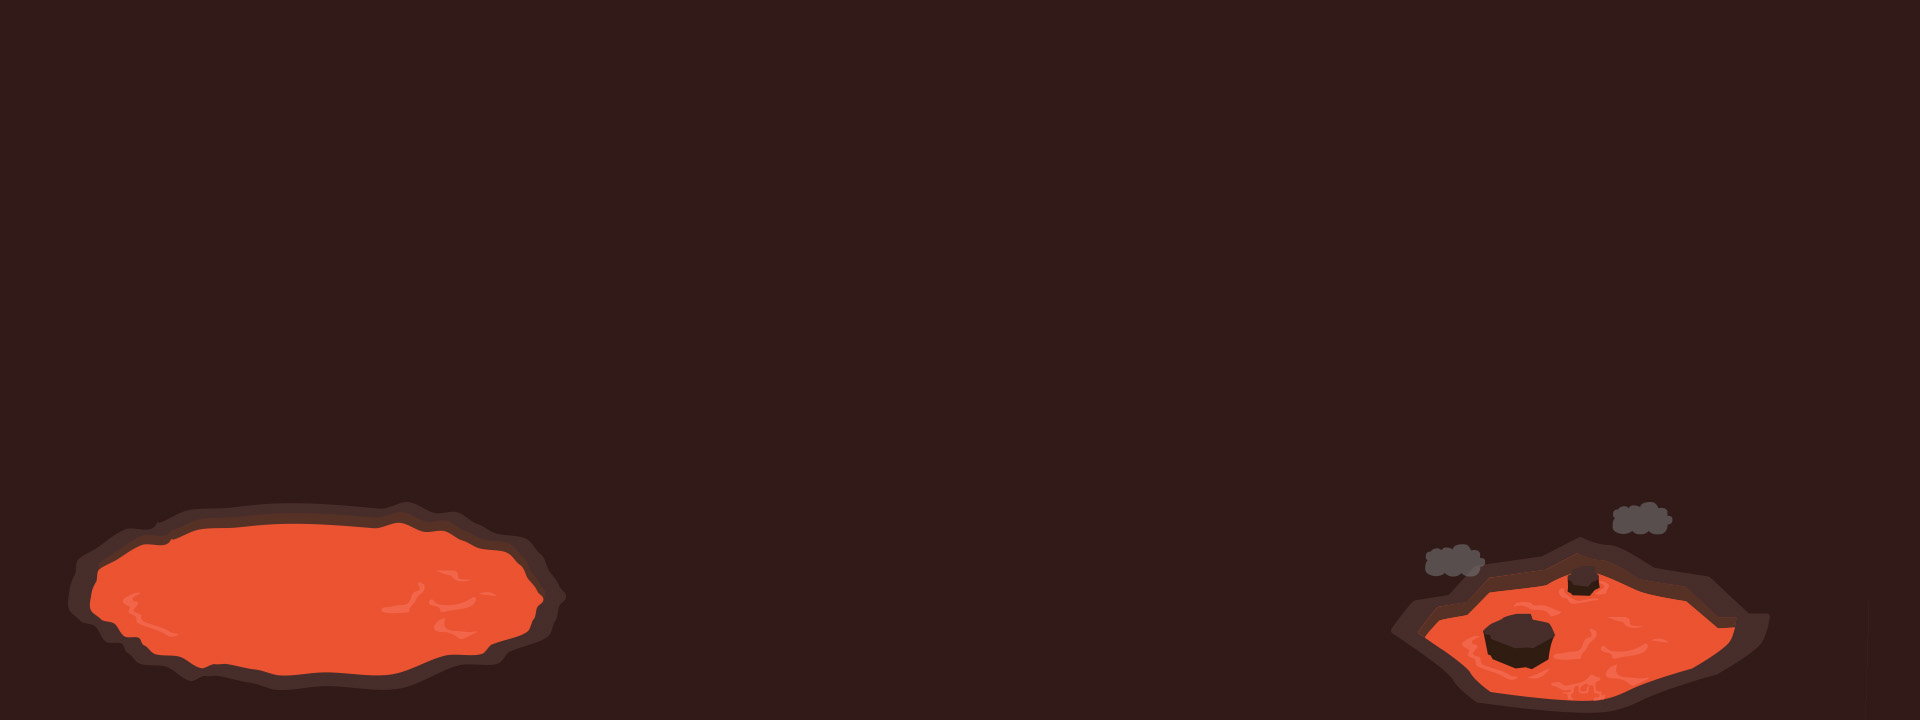
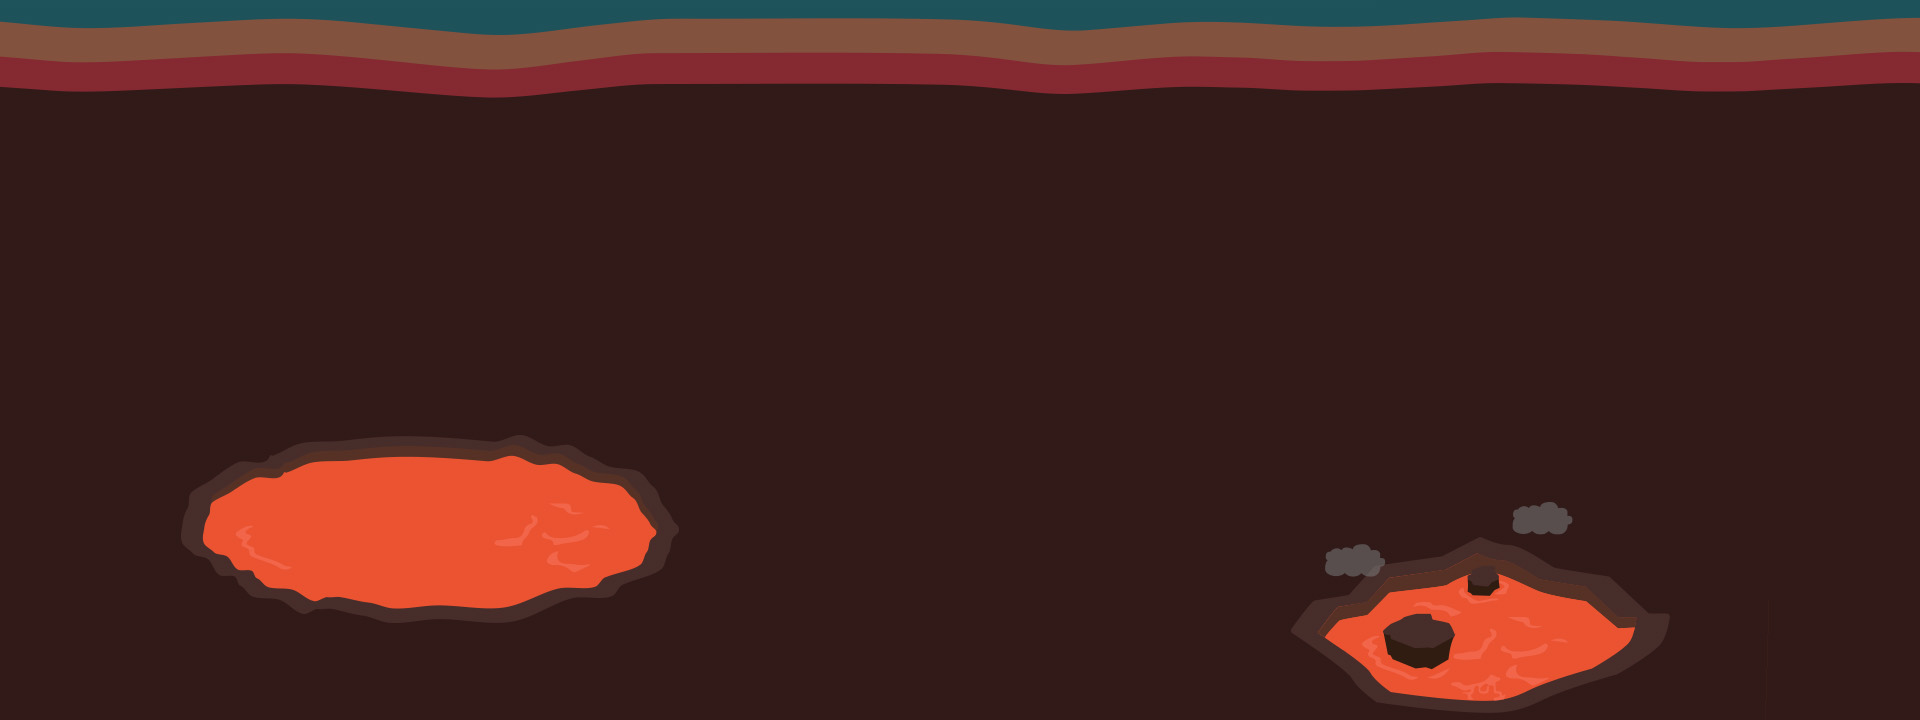
update backgrounds

diff --git a/social/css/custom.css b/social/css/custom.css
@@ -244,7 +244,7 @@ section.blog div.panel-body     { min-height: 250px; }
 
 .water-section{
     padding:15px;
-    background: url("../img/monsterdex/waterbg.jpg") no-repeat;;
+    background: url("../img/monsterdex/water_bg.jpg") no-repeat;;
     background-size:cover;
     background-repeat:no-repeat;
     background-position:top center;

diff --git a/social/monsterdex.php b/social/monsterdex.php
@@ -47,7 +47,6 @@
 		</div>
 			<div class="row">
 				<section class="col-lg-12">
-					<div id="divider1"><img src="img/monsterdex/divide1.jpg"></img> </div>
 					<div class="water-section">
 							<h1 class="section-title">Sea Side</h1>
 								<div id="water-section-divider"></div>
@@ -92,7 +91,6 @@
 
 			<div class="row">
 				<section class="col-lg-12">
-					<div id="divider2"><img src="img/monsterdex/divider2.jpg"></img> </div>
 					<div class="fire-section">
 						<h1 class="section-title">Vulcano Island</h1>
 
